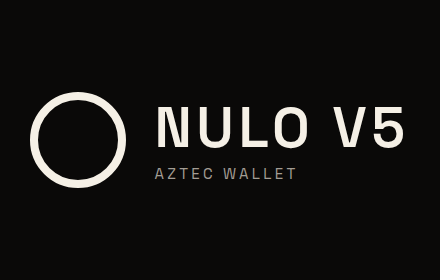
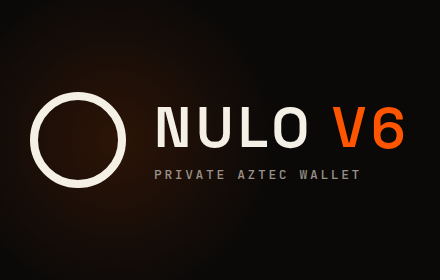
docs(store): dark v6 promo tile and screenshot frame
The promo tile and the 1280x800 frame use the wallet's dark palette and the design package's own
fonts, and the frame takes 2x popup captures so their text stays sharp.

diff --git a/apps/extension/scripts/store-art.ts b/apps/extension/scripts/store-art.ts
@@ -11,21 +11,35 @@ import puppeteer from "puppeteer"
 
 const ROOT = resolve(__dirname, "..")
 const STORE = resolve(ROOT, "store")
-const FONT = resolve(ROOT, "../../packages/design/src/fonts/SpaceGrotesk-latin.woff2")
+const FONTS = resolve(ROOT, "../../packages/design/src/fonts")
 
 const dataUri = (path: string, type: string) => `data:${type};base64,${readFileSync(path).toString("base64")}`
 
 const FRAMES = [
-	{ capture: "home", title: "Your keys, your device.", caption: "A self-custody wallet for Aztec. No server, no account, no telemetry." },
+	{
+		capture: "home",
+		title: "Nothing to see. Everything to own.",
+		caption: "A wallet for Aztec. Your balance and your payments are private unless you decide otherwise.",
+	},
 	{
 		capture: "send",
 		title: "Private by default.",
-		caption: "Transactions are proven in your browser, or by an optional local prover you install.",
+		caption: "Before you send, Nulo shows exactly what stays hidden and what the network will see.",
+	},
+	{
+		capture: "approve",
+		title: "Apps have to ask.",
+		caption: "When a website wants something from your wallet, Nulo spells it out in plain words. You say yes or no.",
 	},
 	{
 		capture: "security",
-		title: "You decide the locks.",
-		caption: "Password or passkey profiles, strict session mode, auto-lock and backups on your terms.",
+		title: "Your keys stay with you.",
+		caption: "Protected by your password or your passkey. No server, no account, no telemetry.",
+	},
+	{
+		capture: "history",
+		title: "Everything recorded. You decide what's read.",
+		caption: "Every payment is labeled private or public, so you always know which is which.",
 	},
 ] as const
 
@@ -51,8 +65,14 @@ async function render(html: string, width: number, height: number, out: string) 
 	console.log(`[store-art] wrote ${out.slice(ROOT.length + 1)}`)
 }
 
-const font = dataUri(FONT, "font/woff2")
-await render(fill(readFileSync(resolve(STORE, "templates/tile.html"), "utf8"), { font }), 440, 280, resolve(STORE, "promo-440x280.png"))
+const font = dataUri(resolve(FONTS, "SpaceGrotesk-latin.woff2"), "font/woff2")
+const mono = dataUri(resolve(FONTS, "JetBrainsMono-latin.woff2"), "font/woff2")
+await render(
+	fill(readFileSync(resolve(STORE, "templates/tile.html"), "utf8"), { font, mono }),
+	440,
+	280,
+	resolve(STORE, "promo-440x280.png"),
+)
 
 const frame = readFileSync(resolve(STORE, "templates/frame.html"), "utf8")
 for (const [index, { capture, title, caption }] of FRAMES.entries()) {
@@ -63,7 +83,7 @@ for (const [index, { capture, title, caption }] of FRAMES.entries()) {
 		)
 		process.exit(1)
 	}
-	const html = fill(frame, { font, title, caption, capture: dataUri(png, "image/png") })
+	const html = fill(frame, { font, mono, title, caption, capture: dataUri(png, "image/png") })
 	await render(html, 1280, 800, resolve(STORE, `screenshot-${index + 1}-1280x800.png`))
 }
 writeFileSync(resolve(STORE, "captures/.gitkeep"), "")

diff --git a/apps/extension/store/templates/frame.html b/apps/extension/store/templates/frame.html
@@ -2,12 +2,17 @@
 <html lang="en">
 	<head>
 		<meta charset="utf-8" />
-		<title>Nulo V5 — screenshot frame</title>
+		<title>Nulo V6 screenshot frame</title>
 		<style>
 			@font-face {
 				font-family: "Space Grotesk";
 				font-weight: 300 700;
 				src: url("{{font}}") format("woff2");
+			}
+			@font-face {
+				font-family: "JetBrains Mono";
+				font-weight: 400 700;
+				src: url("{{mono}}") format("woff2");
 			}
 			html,
 			body {
@@ -17,47 +22,75 @@
 				overflow: hidden;
 			}
 			body {
-				background: #0a0908;
+				position: relative;
+				background: radial-gradient(circle at 76% 50%, rgba(255, 85, 0, 0.11), transparent 42%), #0a0908;
 				color: #f5f0e6;
 				font-family: "Space Grotesk", sans-serif;
 				display: grid;
-				grid-template-columns: 1fr 360px;
+				grid-template-columns: 1fr 432px;
 				align-items: center;
-				padding: 0 120px 0 140px;
+				padding: 0 128px 0 132px;
 				box-sizing: border-box;
-				column-gap: 100px;
+				column-gap: 88px;
+			}
+			.brand {
+				position: absolute;
+				top: 48px;
+				left: 132px;
+				display: flex;
+				align-items: center;
+				gap: 12px;
+				font-family: "JetBrains Mono", monospace;
+				font-size: 14px;
+				font-weight: 500;
+				letter-spacing: 0.2em;
+				color: #999187;
+			}
+			.brand .ring {
+				width: 18px;
+				height: 18px;
+				border: 3px solid #f5f0e6;
+				border-radius: 50%;
+				box-sizing: border-box;
+			}
+			.brand .version {
+				color: #ff5500;
 			}
 			.copy h1 {
-				margin: 0 0 22px;
+				margin: 0 0 24px;
 				font-size: 52px;
 				font-weight: 600;
-				line-height: 1.08;
+				line-height: 1.06;
 				letter-spacing: -0.01em;
+				text-wrap: balance;
 			}
 			.copy p {
 				margin: 0;
 				font-size: 22px;
 				font-weight: 400;
 				line-height: 1.45;
-				color: #a39d94;
-				max-width: 520px;
+				color: #999187;
+				max-width: 500px;
 			}
 			.shot {
-				width: 360px;
-				height: 600px;
-				border-radius: 18px;
+				width: 432px;
+				height: 720px;
+				border-radius: 22px;
 				overflow: hidden;
-				box-shadow: 0 30px 80px rgba(0, 0, 0, 0.6);
-				border: 1px solid #2a2724;
+				border: 1px solid rgba(245, 240, 230, 0.14);
+				box-shadow:
+					0 40px 120px rgba(0, 0, 0, 0.8),
+					0 0 90px rgba(255, 85, 0, 0.1);
 			}
 			.shot img {
 				display: block;
-				width: 360px;
-				height: 600px;
+				width: 432px;
+				height: 720px;
 			}
 		</style>
 	</head>
 	<body>
+		<div class="brand"><span class="ring"></span><span>NULO <span class="version">V6</span></span></div>
 		<div class="copy">
 			<h1>{{title}}</h1>
 			<p>{{caption}}</p>

diff --git a/apps/extension/store/templates/tile.html b/apps/extension/store/templates/tile.html
@@ -2,12 +2,17 @@
 <html lang="en">
 	<head>
 		<meta charset="utf-8" />
-		<title>Nulo V5 — small promo tile</title>
+		<title>Nulo V6 small promo tile</title>
 		<style>
 			@font-face {
 				font-family: "Space Grotesk";
 				font-weight: 300 700;
 				src: url("{{font}}") format("woff2");
+			}
+			@font-face {
+				font-family: "JetBrains Mono";
+				font-weight: 400 700;
+				src: url("{{mono}}") format("woff2");
 			}
 			html,
 			body {
@@ -17,7 +22,8 @@
 				overflow: hidden;
 			}
 			body {
-				background: #0a0908;
+				position: relative;
+				background: radial-gradient(circle at 26% 50%, rgba(255, 85, 0, 0.14), transparent 46%), #0a0908;
 				color: #f5f0e6;
 				font-family: "Space Grotesk", sans-serif;
 				display: flex;
@@ -38,18 +44,22 @@
 				letter-spacing: 0.08em;
 				line-height: 1;
 			}
+			.wordmark .version {
+				color: #ff5500;
+			}
 			.wordmark small {
 				display: block;
-				margin-top: 10px;
-				font-size: 15px;
-				font-weight: 400;
-				letter-spacing: 0.22em;
-				color: #a39d94;
+				margin-top: 12px;
+				font-family: "JetBrains Mono", monospace;
+				font-size: 13px;
+				font-weight: 500;
+				letter-spacing: 0.2em;
+				color: #999187;
 			}
 		</style>
 	</head>
 	<body>
 		<div class="ring"></div>
-		<div class="wordmark">NULO V5<small>AZTEC WALLET</small></div>
+		<div class="wordmark">NULO <span class="version">V6</span><small>PRIVATE AZTEC WALLET</small></div>
 	</body>
 </html>
